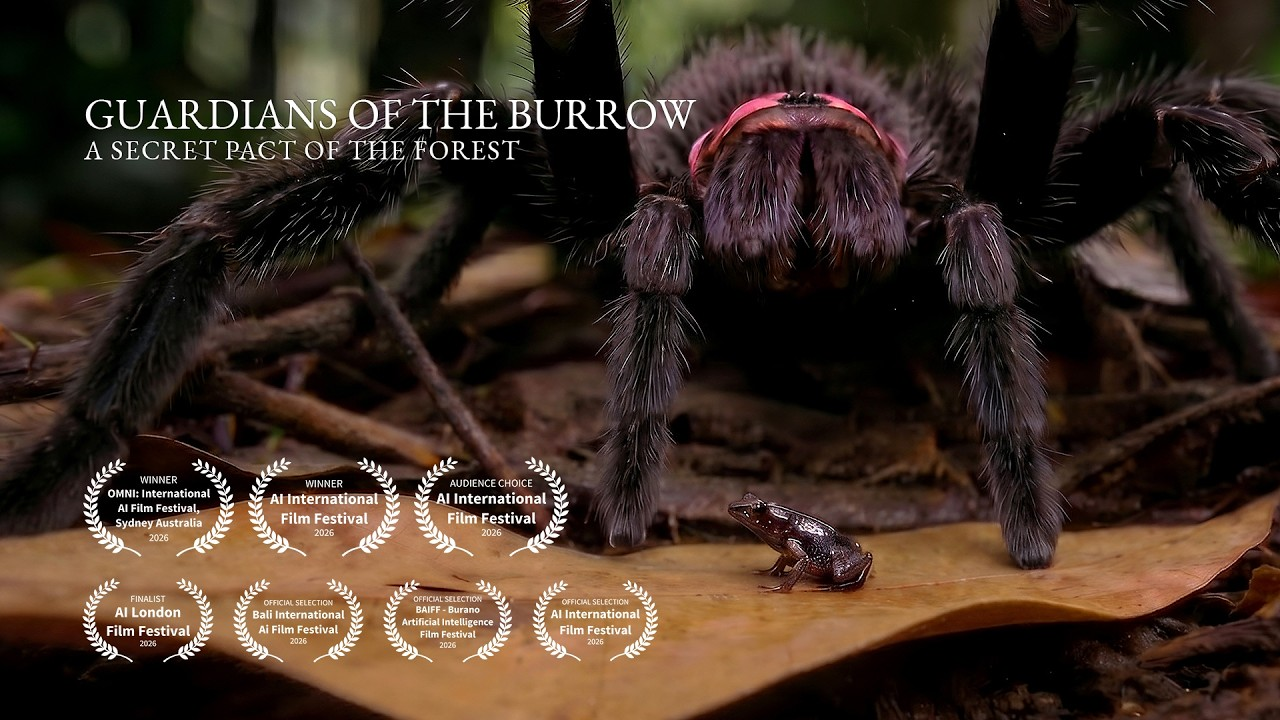
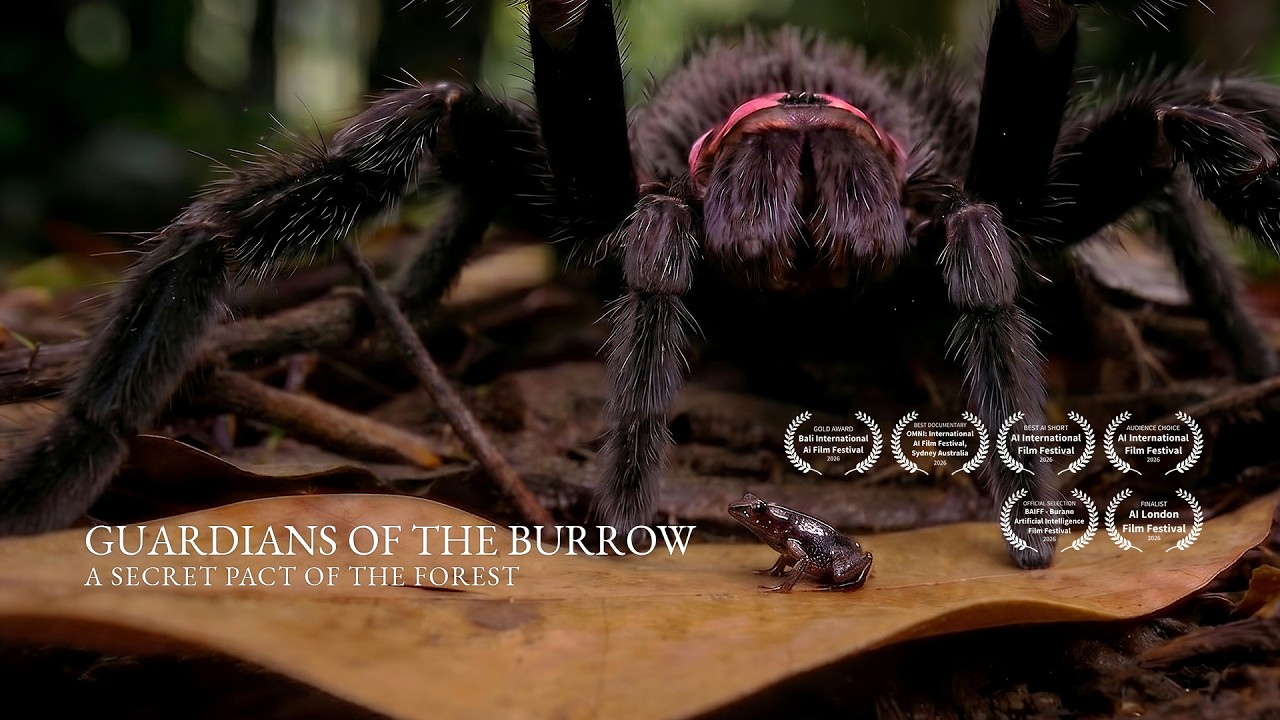
Restore Guardians of the Burrow player and retire The Patchwright's removed upload
The YouTube audit found both original uploads no longer public. Jodie
Heenan's November 4 re-release now plays on the film page with its current
thumbnail and description; The Patchwright moves to Released with its
official trailer kept as a source.

Changed region(s): [[0.0625, 0.6417, 0.5625, 0.9167], [0.0625, 0.1222, 0.5625, 0.2444], [0.5938, 0.5806, 0.9375, 0.7639]]

diff --git a/content/films/guardians-of-the-burrow.md b/content/films/guardians-of-the-burrow.md
@@ -5,18 +5,18 @@ description: "A generated wildlife documentary about an Amazonian tarantula and 
 year: 2026
 format: "Short film"
 genre: "Documentary"
-runtimeMinutes: 1.92
+runtimeMinutes: 1.88
 status: "Watch now"
-watchUrl: "https://www.youtube.com/watch?v=UPZQFvWQBuY"
+watchUrl: "https://www.youtube.com/watch?v=--YF2APF_Oc"
 watchLabel: "Watch the complete original"
 discoveredAt: "2026-11-02"
-lastVerifiedAt: "2026-11-02"
+lastVerifiedAt: "2026-11-20"
 image: "/media/guardians-of-the-burrow.jpg"
 imageAlt: "A large dark tarantula with a pink carapace stands over a tiny frog on a dry leaf, with the title and festival laurels"
 imageCredit: "Jodie Heenan · official YouTube thumbnail"
-imageSource: "https://www.youtube.com/watch?v=UPZQFvWQBuY"
-sources: [{"label":"Complete original and maker's process notes","url":"https://www.youtube.com/watch?v=UPZQFvWQBuY"},{"label":"Official OMNI 1.5 Hyperphantasia results","url":"https://www.omnifilmfestival.com/hyperphantasia"},{"label":"Filmmaker website","url":"https://jodieheenan.com/"}]
-production: [{"label":"Subject and research","detail":"Jodie Heenan says the film depicts a real partnership between the Amazonian tarantula Xenesthis immanis and the dotted humming frog Chiasmocleis ventrimaculata, researched after her four-year-old son described it. All wildlife imagery is generated, not filmed.","source":"https://www.youtube.com/watch?v=UPZQFvWQBuY"},{"label":"Disclosed tools and workflow","detail":"The maker says it was built in Kling 3.0 4K under wildlife-documentary rules (locked compositions, patient camera, held macro focus). She researched and wrote the script, generated the voiceover with AI, produced more than 700 images, corrected the best in Photoshop against published photographs of both species, animated about 70 clips, then edited and colour-graded the film.","source":"https://www.youtube.com/watch?v=UPZQFvWQBuY"},{"label":"Stated limits","detail":"The maker says she is a filmmaker, not a biologist, and that a few AI glitches remain in the final cut.","source":"https://www.youtube.com/watch?v=UPZQFvWQBuY"},{"label":"Release context","detail":"Uploaded May 8, 2026; runs 1:55. The description carries a Kling 4K contest tag (#KlingAI4KContest); any contest result or support is not stated.","source":"https://www.youtube.com/watch?v=UPZQFvWQBuY"}]
+imageSource: "https://www.youtube.com/watch?v=--YF2APF_Oc"
+sources: [{"label": "Complete film and maker's process notes (current upload)", "url": "https://www.youtube.com/watch?v=--YF2APF_Oc"}, {"label": "Earlier upload, May 2026 (no longer public)", "url": "https://www.youtube.com/watch?v=UPZQFvWQBuY"}, {"label": "Official OMNI 1.5 Hyperphantasia results", "url": "https://www.omnifilmfestival.com/hyperphantasia"}, {"label": "Filmmaker website", "url": "https://jodieheenan.com/"}]
+production: [{"label": "Subject and research", "detail": "Jodie Heenan says the film depicts a real partnership between the Amazonian tarantula Xenesthis immanis and the dotted humming frog Chiasmocleis ventrimaculata, researched after her young son described it. All wildlife imagery is generated, not filmed.", "source": "https://www.youtube.com/watch?v=--YF2APF_Oc"}, {"label": "Disclosed tools and workflow", "detail": "She researched and wrote the script, generated the voiceover with AI, produced more than 700 images, corrected the best in Photoshop against published photographs of both species for scale and markings, animated about 70 shots in Kling, then edited and colour-graded the film. Her earlier upload named the model as Kling 3.0 4K.", "source": "https://www.youtube.com/watch?v=--YF2APF_Oc"}, {"label": "Documentary rules", "detail": "The maker says she held the film to wildlife-documentary conventions: locked compositions, patient camera work and macro detail held in focus.", "source": "https://www.youtube.com/watch?v=--YF2APF_Oc"}, {"label": "Maker background and limits", "detail": "Heenan describes more than 20 years in motion design and art direction, says she is a filmmaker rather than a biologist, and presents AI as one more tool rather than a replacement for craft.", "source": "https://www.youtube.com/watch?v=--YF2APF_Oc"}, {"label": "Release history", "detail": "First uploaded May 8, 2026; the maker re-released it on her channel on November 4, 2026, running 1:53. The re-release description lists further honours she reports from the AI International Film Festival and the Bali International AI Film Festival.", "source": "https://www.youtube.com/watch?v=--YF2APF_Oc"}]
 ---
 
 ## Why this film matters
@@ -25,6 +25,8 @@ Guardians of the Burrow applies the grammar of a natural-history film to images 
 
 OMNI International AI Film Festival named it winner of **Documentary, Short Form** at OMNI 1.5 Hyperphantasia in Sydney on July 3, 2026.
 
-## Production evidence
+## How it was made
 
-The workflow, image counts and stated limitations come from the maker's own release description and are attributed to her. Independent scientific review of the depicted behaviour, budget and any other contributors are not disclosed. The journal checked the full-release listing, description and festival result; it has not watched the complete film.
+The workflow comes from the maker's own release description. Heenan wrote and researched the script herself, then treated generation as a selection process: more than 700 stills, the best retouched in Photoshop against published photographs so both species keep their real scale and markings, and only about 70 of those animated in Kling. The voiceover is generated. She edited and graded the film herself.
+
+She re-released the film on her channel in November with a new description; the player above is that current upload. Independent scientific review of the depicted behaviour, the budget and any other contributors are not disclosed.

diff --git a/README.md b/README.md
@@ -583,3 +583,7 @@ Rotated the three November 13 features one for one while retaining the two newer
 Replaced 28 low-resolution covers with larger versions of real, credited artwork. Fourteen letterboxed 480 x 360 YouTube thumbnails and three covers previously taken from festival or showcase pages now use the uploads' 1280 x 720 thumbnails. Founder Mode, Kitsune, Nothing Gold Can Stay and The Frozen Field use their 1280 px Vimeo thumbnails. Seven X releases (Baby, You Flew; Malfoid: Expecto Patronum; P(DOOM); Seventh Reset; The Offsite; WAIST CØNTRØL; Kusarabi) now use the creators' original full-size video posters instead of small sampled frames. Forever's special episode, Tu me calcules pas and Vanish Thread keep their existing frames because their posters are a text card, an interface screen and a title card. `scripts/artwork.mjs` lists narrow, letterboxed, oversized and missing artwork for future runs.
 
 The research rules now distinguish account safety from domains: APIs and keyless public endpoints come first, the user's own signed-in browser is never used for YouTube or X, and the signed-out in-app browser may open a limited number of specific pages after a sign-in check. No dependency, layout or design changes.
+
+## November 20, 2026 — afternoon playback check
+
+The YouTube audit found two catalogue players no longer public. Jodie Heenan re-released Guardians of the Burrow on her channel on November 4; the film page now plays that upload with its current thumbnail and updated maker notes. Gossip Goblin's full upload of The Patchwright is no longer public and no other official full release was found, so it moves from Watch now to Released, with the official trailer listed as a source. The homepage slate is unchanged.

diff --git a/content/films/the-patchwright.md b/content/films/the-patchwright.md
@@ -6,19 +6,19 @@ year: 2026
 format: "Short film"
 genre: "Cyberpunk"
 runtimeMinutes: 22
-status: "Watch now"
-watchUrl: "https://www.youtube.com/watch?v=-Rzl7nUdEs4"
-watchLabel: "Watch on YouTube"
+status: "Released"
 image: "/media/the-patchwright.jpg"
 imageAlt: "A cybernetic aristocrat in The Patchwright"
 imageCredit: "Gossip Goblin · still via The Daring Creatives"
 imageSource: "https://www.thedaringcreatives.com/creator-stories/what-zack-london-actually-means-when-he-says-there-is-zero-skill-in-ai/"
 order: 1
 discoveredAt: "2026-09-17"
-lastVerifiedAt: "2026-09-17"
+lastVerifiedAt: "2026-11-20"
 sources:
-  - label: "The Patchwright — official film"
+  - label: "The Patchwright — original full upload (no longer public)"
     url: "https://www.youtube.com/watch?v=-Rzl7nUdEs4"
+  - label: "The Patchwright — official trailer"
+    url: "https://www.youtube.com/watch?v=tfdokTPsnb0"
   - label: "PJ Ace — interview with the filmmaker"
     url: "https://pjace.beehiiv.com/p/gossip-goblin-s-crazy-workflow-for-building-original-worlds-200m-views"
 production:
@@ -37,6 +37,8 @@ production:
 ---
 
 Set in NiiroCradle, this cyberpunk short follows an android's search for a lost memory. Its recurring world gives the story a life beyond a single release.
+
+The full film is no longer public on Gossip Goblin's YouTube channel; the official trailer remains available. London's feature is also set on Niiro Cradle, and its public cast listings include a role named the Patchwright; see [Gods Don’t Give Gifts](/films/gods-dont-give-gifts/).
 
 ## Why this film matters
 

diff --git a/content/artists/jodie-heenan.md b/content/artists/jodie-heenan.md
@@ -5,7 +5,7 @@ focus: "Generated natural-history documentary, comedy and commercial motion desi
 website: "https://jodieheenan.com/"
 discoveredAt: "2026-11-02"
 lastVerifiedAt: "2026-11-02"
-sources: [{"label":"Filmmaker website and portfolio","url":"https://jodieheenan.com/"},{"label":"Creator channel","url":"https://www.youtube.com/@jodieheenan"},{"label":"Complete original Guardians of the Burrow","url":"https://www.youtube.com/watch?v=UPZQFvWQBuY"},{"label":"Official OMNI 1.5 Hyperphantasia results","url":"https://www.omnifilmfestival.com/hyperphantasia"}]
+sources: [{"label":"Filmmaker website and portfolio","url":"https://jodieheenan.com/"},{"label":"Creator channel","url":"https://www.youtube.com/@jodieheenan"},{"label":"Guardians of the Burrow — current full upload","url":"https://www.youtube.com/watch?v=--YF2APF_Oc"},{"label":"Official OMNI 1.5 Hyperphantasia results","url":"https://www.omnifilmfestival.com/hyperphantasia"}]
 ---
 
 ## Why follow this filmmaker
